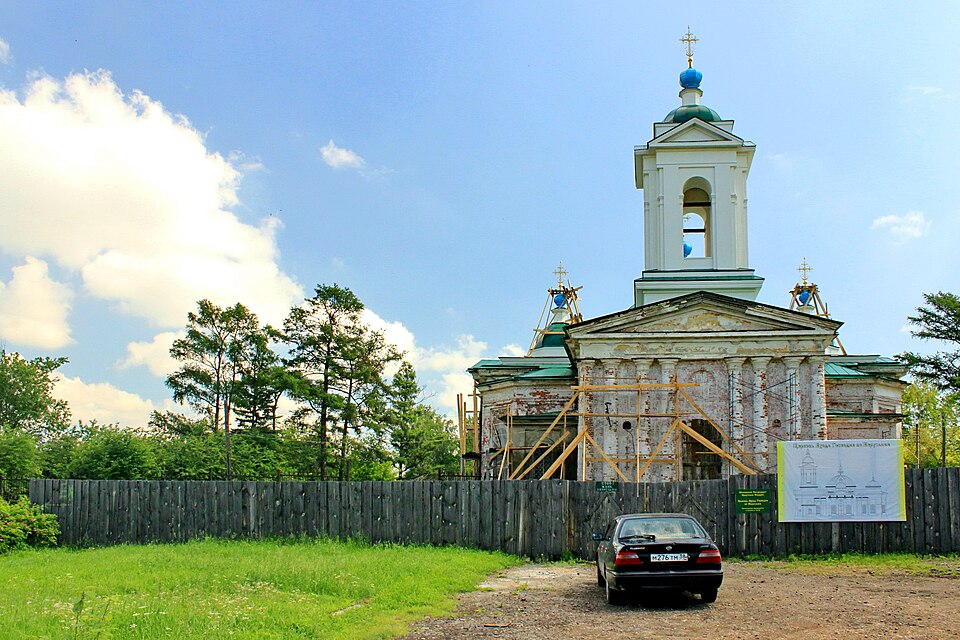
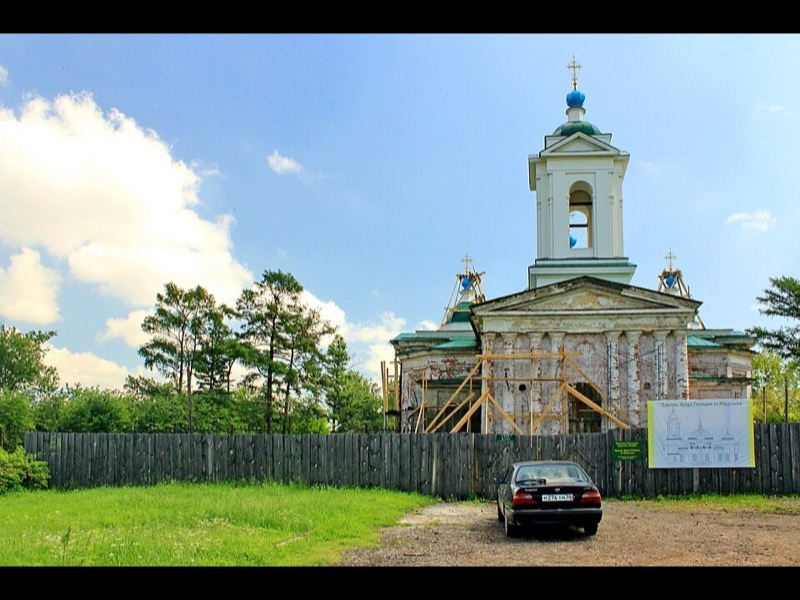
fix

diff --git a/scripts/churches-fill-covers.php b/scripts/churches-fill-covers.php
@@ -1,11 +1,11 @@
 <?php
 /**
  * Раздел «Поддержка РПЦ» (churches): по title ищет тематическую картинку (храм/церковь) в Wikimedia Commons,
- * сохраняет в public/images, пишет путь в cover в БД. Картинки не повторяются.
+ * сохраняет в public/images, приводит к размеру 800×600, пишет путь в cover в БД. Картинки не повторяются.
  * Принимаются только изображения с тематическими подписями (храм, church, orthodox и т.д.).
  * Запуск: php scripts/churches-fill-covers.php [--all]
  *   --all — обработать все записи (по умолчанию только с пустым cover)
- * Для надёжной загрузки с Commons лучше запускать на хосте (не в Docker): php scripts/churches-fill-covers.php --all
+ * Ресайз 800×600 требует GD с JPEG или Imagick. Иначе после скрипта выполните: bash scripts/churches-resize-covers.sh (нужен ImageMagick).
  */
 $base = dirname(__DIR__);
 require $base . '/vendor/autoload.php';
@@ -165,6 +165,26 @@ function coverFilename(int $id): string
     return "church-{$id}.jpg";
 }
 
+/** Единый размер обложек: 800×600, обрезка по центру (fit). */
+const COVER_WIDTH = 800;
+const COVER_HEIGHT = 600;
+
+/** Привести изображение к единому размеру 800×600 (обрезка по центру) и перезаписать файл. */
+function resizeToUniformSize(string $filepath): bool
+{
+    try {
+        $driver = extension_loaded('imagick') ? 'imagick' : 'gd';
+        $manager = new \Intervention\Image\ImageManager(['driver' => $driver]);
+        $img = $manager->make($filepath);
+        $img->fit(COVER_WIDTH, COVER_HEIGHT);
+        $img->encode('jpg', 88);
+        $img->save($filepath);
+        return true;
+    } catch (\Throwable $e) {
+        return false;
+    }
+}
+
 $churches = \App\Models\Church::orderBy('id')->get(['id', 'title', 'cover']);
 if (!$processAll) {
     $churches = $churches->filter(function ($c) {
@@ -237,6 +257,8 @@ foreach ($churches as $church) {
         $failed[] = $church->id . ': ' . mb_substr($title, 0, 50);
         continue;
     }
+
+    resizeToUniformSize($filepath);
 
     $usedUrls[] = $usedUrl;
     $coverPath = '/images/' . $filename;

diff --git a/scripts/churches-resize-covers.php b/scripts/churches-resize-covers.php
@@ -1,0 +1,64 @@
+<?php
+/**
+ * Приводит все обложки раздела РПЦ (public/images/church-*.jpg) к единому размеру 800×600.
+ * Запуск: php scripts/churches-resize-covers.php
+ * Использует Intervention Image (gd/imagick) или, при недоступности, ImageMagick convert.
+ */
+$base = dirname(__DIR__);
+require $base . '/vendor/autoload.php';
+$app = require_once $base . '/bootstrap/app.php';
+$app->make(\Illuminate\Contracts\Console\Kernel::class)->bootstrap();
+
+$imagesDir = $base . '/public/images';
+$width = 800;
+$height = 600;
+
+$files = glob($imagesDir . '/church-*.jpg');
+if (empty($files)) {
+    echo "Нет файлов church-*.jpg в public/images.\n";
+    exit(0);
+}
+
+function resizeWithIntervention(string $filepath, int $w, int $h): bool
+{
+    $driver = extension_loaded('imagick') ? 'imagick' : 'gd';
+    try {
+        $manager = new \Intervention\Image\ImageManager(['driver' => $driver]);
+        $img = $manager->make($filepath);
+        $img->fit($w, $h);
+        $img->encode('jpg', 88);
+        $img->save($filepath);
+        return true;
+    } catch (\Throwable $e) {
+        return false;
+    }
+}
+
+function resizeWithConvert(string $filepath, int $w, int $h): bool
+{
+    $tmp = $filepath . '.tmp.' . pathinfo($filepath, PATHINFO_EXTENSION);
+    $cmd = sprintf(
+        'convert %s -resize %dx%d^ -gravity center -extent %dx%d %s 2>/dev/null && mv -f %s %s',
+        escapeshellarg($filepath),
+        $w,
+        $h,
+        $w,
+        $h,
+        escapeshellarg($tmp),
+        escapeshellarg($tmp),
+        escapeshellarg($filepath)
+    );
+    exec($cmd, $out, $code);
+    return $code === 0;
+}
+
+$ok = 0;
+foreach ($files as $filepath) {
+    if (resizeWithIntervention($filepath, $width, $height) || resizeWithConvert($filepath, $width, $height)) {
+        $ok++;
+        echo "OK: " . basename($filepath) . "\n";
+    } else {
+        echo "Ошибка: " . basename($filepath) . " (нужны GD с JPEG, Imagick или ImageMagick convert)\n";
+    }
+}
+echo "\nОбработано: $ok из " . count($files) . ".\n";
